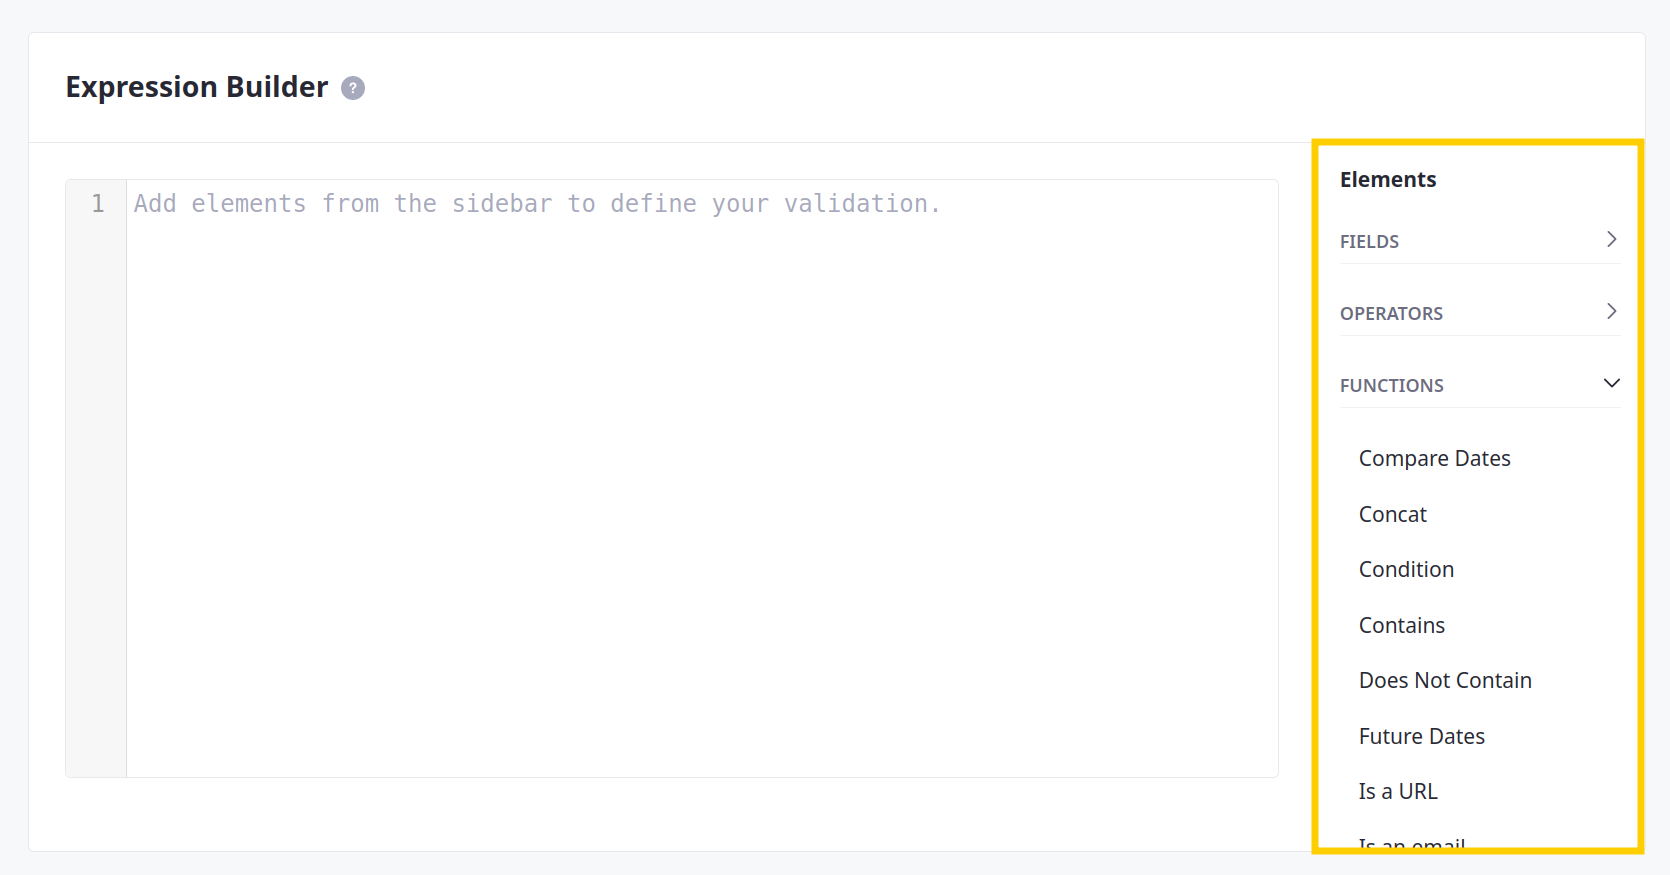
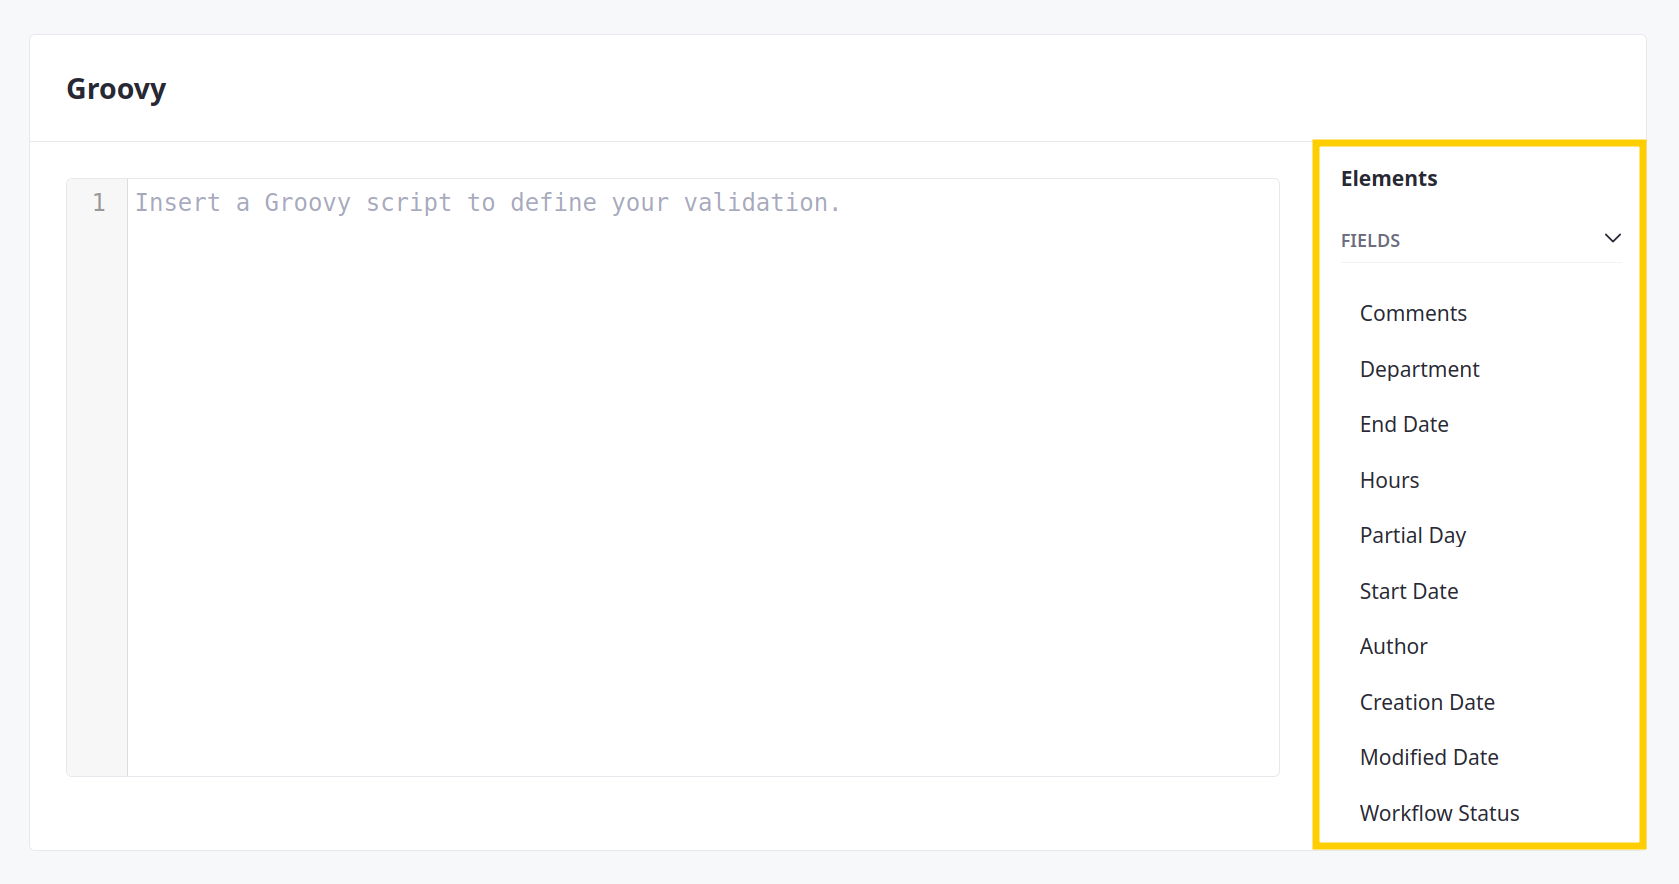
LRDOCS-12293 incorporates SME input

Changed region(s): [[0.7784, 0.1543, 0.9964, 0.9874], [0.0623, 0.216, 0.5605, 0.2469], [0.0311, 0.0926, 0.218, 0.1234]]

diff --git a/docs/dxp/latest/en/building-applications/objects/creating-and-managing-objects/validations/adding-custom-validations.md b/docs/dxp/latest/en/building-applications/objects/creating-and-managing-objects/validations/adding-custom-validations.md
@@ -9,19 +9,11 @@ Validations set rules for determining valid field entries. Each validation has i
 
 ![Create validations for custom and system object fields.](./adding-custom-validations/images/01.png)
 
-```{important}
-Groovy script validations are only available for Liferay Experience Cloud Self-Managed and Liferay DXP Self-Hosted.
-```
-
 To add a validation,
 
 1. Open the *Global Menu* ( ![Global Menu](../../../../images/icon-applications-menu.png) ), go to the *Control Panel* tab, and click *Objects*.
 
 1. Begin editing an object definition.
-
-   ```{note}
-   For Liferay 7.4 U38+/GA38+, you can add custom validations to system objects.
-   ```
 
 1. Go to the *Validations* tab and click *Add* ( ![Add Button](../../../../images/icon-add.png) ).
 
@@ -67,15 +59,19 @@ To add a validation,
 
 1. Click *Save*.
 
-While activated, the validation runs for all new object entries.
+While activated, the validation runs for all new object entries and is displayed in [layouts](../layouts.md) and [form containers](../../using-fragments-to-build-forms.md)
+
+![Validations are displayed in form containers.](./adding-custom-validations/images/06.png)
 
 ## Using Groovy Validations
 
+{bdg-primary}`Liferay Experience Cloud Self-Managed and Liferay DXP Self-Hosted`
+
 Groovy validations support all standard [Groovy Script](https://groovy-lang.org/) capabilities. When defining conditions, you must use the `invalidFields` variable. Liferay only displays the validation error message when `invalidFields` returns `true`.
 
-![Use the side panel to add field elements to your Groovy validations.](./adding-custom-validations/images/06.png)
+![Use the side panel to add field elements to your Groovy validations.](./adding-custom-validations/images/07.png)
 
-For Liferay 7.4 U33+ and GA33+, Liferay uses the [GroovyShell class](https://docs.groovy-lang.org/latest/html/api/groovy/lang/GroovyShell.html) to check your Groovy scripts for valid syntax when you click *Save*. If the script is invalid, Liferay shows an error message.
+Liferay uses the [GroovyShell class](https://docs.groovy-lang.org/latest/html/api/groovy/lang/GroovyShell.html) to check your Groovy scripts for valid syntax when you click *Save*. If the script is invalid, Liferay shows an error message.
 
 ## Using Expression Builder Validations
 
@@ -85,9 +81,9 @@ Expression Builder provides predefined fields, operators, and functions that you
 You can only use Expression Builder validations with text, numeric, date, and Boolean field types.
 ```
 
-![Use the side panel to add field, operator, and function elements to your validation.](./adding-custom-validations/images/07.png)
+![Use the side panel to add field, operator, and function elements to your validation.](./adding-custom-validations/images/08.png)
 
-For Liferay 7.4 U33+ and GA33+, Liferay checks your expression for valid syntax when you click Save. If the expression is invalid, Liferay shows an error message.
+Liferay checks your expression for valid syntax when you click Save. If the expression is invalid, Liferay shows an error message.
 
 ### Expression Builder Operators
 
@@ -134,8 +130,6 @@ This table lists available Expression Builder functions with their compatible fi
 See [Expression Builder Validations Reference](./expression-builder-validations-reference.md) for more information and examples.
 
 ## Available Fields Reference
-
-{bdg-secondary}`For 7.4 U41+/GA41+`
 
 When constructing conditions, you can use any of the object's custom or system fields. You can also select from relationship fields on the child side of a one-to-many relationship.
 
